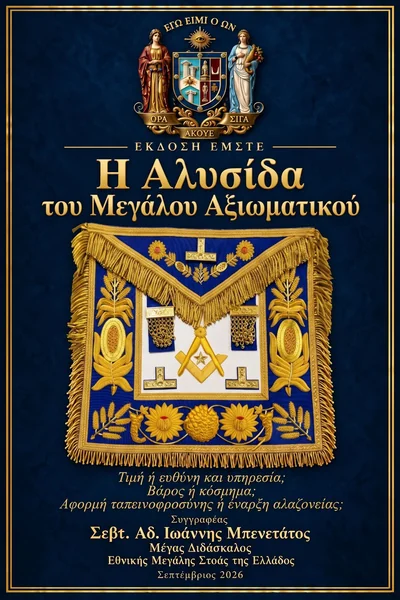
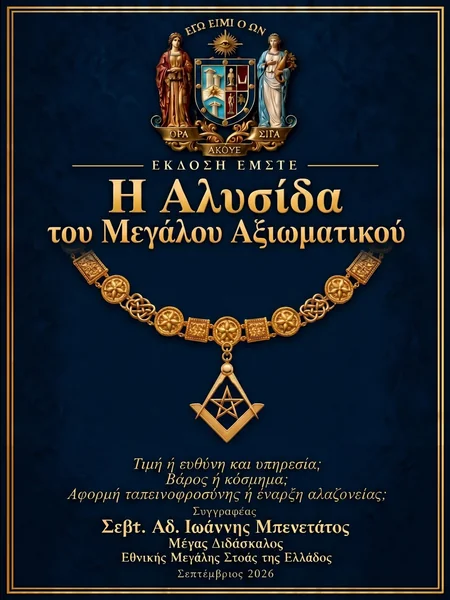
Διοίκηση & Δομή: νέο εξώφυλλο για «Η Αλυσίδα του Μεγάλου Αξιωματικού»
Claude-Session: https://claude.ai/code/session_016edifxoRfPmSuJ2aVcE5mP

diff --git a/index.html b/index.html
@@ -914,6 +914,7 @@
     transform-origin:bottom center;
   }
   .book-cover img{display:block; width:100%; height:100%; object-fit:cover;}
+  .book-cover--3x4{aspect-ratio:3 / 4;}
   .wing-en .slot--cover{margin-left:34px;}
   .slot--cover:hover .book-cover,
   .slot--cover:focus-within .book-cover{
@@ -1843,11 +1844,11 @@
         </div>
         <!-- Η Αλυσίδα του Μεγάλου Αξιωματικού · ανακοίνωση ανάρτησης πριν ανοίξει ο σύνδεσμος -->
         <div class="slot slot--cover">
-          <a class="book-cover js-announce" target="_blank" rel="noopener"
+          <a class="book-cover book-cover--3x4 js-announce" target="_blank" rel="noopener"
              href="https://drive.google.com/file/d/1FW9MwMTZXgNFqpbOlY8b6etynLdXfsYV/view?usp=sharing"
              data-announce="ΑΝΑΡΤΗΘΗΚΕ 21 ΟΚΤΩΒΡΙΟΥ 2026"
              aria-label="Άνοιγμα: Η Αλυσίδα του Μεγάλου Αξιωματικού">
-            <img src="assets/alysida-megalou-axiomatikou-cover.webp" width="400" height="600" alt="Εξώφυλλο: Η Αλυσίδα του Μεγάλου Αξιωματικού" decoding="async" loading="lazy">
+            <img src="assets/alysida-megalou-axiomatikou-cover.webp?v=2" width="450" height="600" alt="Εξώφυλλο: Η Αλυσίδα του Μεγάλου Αξιωματικού" decoding="async" loading="lazy">
           </a>
           <div class="flyout"><h4>Η Αλυσίδα του Μεγάλου Αξιωματικού</h4><p class="flyout-note">Τιμή ή ευθύνη και υπηρεσία; · Σεβτ. Αδ. Ιωάννης Μπενετάτος, Μέγας Διδάσκαλος · Αναρτήθηκε 21 Οκτωβρίου 2026</p><a class="js-announce" href="https://drive.google.com/file/d/1FW9MwMTZXgNFqpbOlY8b6etynLdXfsYV/view?usp=sharing" target="_blank" rel="noopener" data-announce="ΑΝΑΡΤΗΘΗΚΕ 21 ΟΚΤΩΒΡΙΟΥ 2026">Ανάγνωση →</a></div>
         </div>
